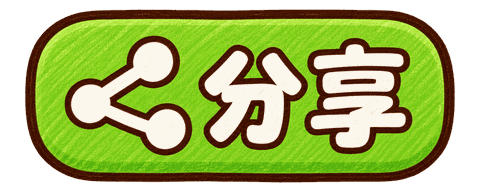
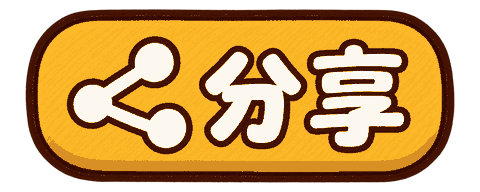
fix: 将结算分享按钮改为蜂蜜金配色

diff --git a/文档/原型-超越目标与结算名次/结算分享按钮-素材说明.md b/文档/原型-超越目标与结算名次/结算分享按钮-素材说明.md
@@ -1,0 +1,46 @@
+# 结算分享按钮素材记录
+
+日期：2026-10-20。按用户反馈，将结算底部的绿色分享按钮改为蜂蜜金，与奶油首页、珊瑚重玩及弹窗金边搭配。
+
+## 最终文件
+
+- [运行时 PNG](../../assets/resources/Settlement/button-share-v3.png)
+- [design 源稿](../../design/原型-超越目标与结算名次/button-share-v3.png)：与运行时文件逐字节一致。
+- [深底／奶油底与同组尺寸预览](../../design/原型-超越目标与结算名次/结算按钮-配色预览.png)：素材 QA 图，不是 Creator 运行截图。
+- [检查记录](../../design/原型-超越目标与结算名次/结算分享按钮-检查.json)
+
+保留原胶囊轮廓、左侧分享图标和既有「分享」文字。蜂蜜金底搭配暖棕轮廓和少量哑光彩铅纹理，无花朵、白色高光线或新增文案。首页和重玩素材保持原样。
+
+## 规格与接入
+
+| 项目 | 结果 |
+| --- | --- |
+| 画布／格式 | 480×192，RGBA PNG；RGB 减色为 16 色，单独保留抗锯齿 Alpha |
+| 文件大小 | 47,860 字节（46.7 KB），低于按钮 48 KB 目标与 96 KB 上限；比原版增加 21,094 字节 |
+| Alpha > 4 包围盒 | (25,9)–(455,183)，右下不含；有效 430×174，与原版一致 |
+| 原显示框 | 316×126 设计单位，再随整窗等比缩放；源图为显示框约 1.52 倍 |
+| 运行时有效尺寸 | 约 283.08×114.19 设计单位，与原版一致 |
+| Alpha 检查 | 四角为 0；保护内区 (65,55)–(415,137) 全为 255；保留透明边缘 |
[1 lines of base64/hex data omitted]
+| SpriteFrame | `c0733c77-085e-4fea-af09-27de9d46313a@f9941`，原 `.meta` 未修改 |
+| 引用 | `game.scene` 和 `SettlementPopup.prefab` 仍使用同一资源；无需改脚本、层级或点击区域 |
+
+使用内置 ImageGen 编辑原素材，随后裁去无效空白、等比缩放、校正内部透明度并压缩。PNG-8 试压将内部 Alpha 合并为 253，因此最终采用 RGBA，完整保留不透明内区与抗锯齿边缘。项目仅接入最终小图，没有加入生成原图或旧版本。
+
+`check_asset.py --profile button` 通过；已查看深色底与奶油色底的原尺寸和同组三按钮缩小预览，字形清楚，有效高度与首页、重玩接近。未执行 Creator 3.8.8 重新导入、运行场景、按下态和微信真机检查；实际包体积未检查。
+
+## 生成提示词
+
+工具：内置 `image_gen.imagegen`。原分享按钮为编辑目标，首页与重玩按钮仅作为风格参考；保留现有烘焙文字，不增加文案。
+
+首轮：
+
+```text
+Use case: precise-object-edit. Deliver ONE transparent PNG game UI asset: the existing horizontal share button shown in reference image 1, recolored to warm honey gold to replace its green background. Reference image 1 is the edit target; reference images 2 and 3 are matching home/replay buttons for style only and must not appear in the output. Preserve the same straight horizontal rounded capsule silhouette, wide 2.47:1 visible aspect ratio, warm brown outline, left three-node share icon and the existing exact Chinese characters 分享 on the right. These existing cream icon and letter shapes must remain unchanged and readable when the full button is displayed at 143x58 pixels. Change only the green button fill to a restrained honey-gold #F6B43A, with a small flat darker ochre lower rim #D89528; use a few subtle matte crayon strokes matching the other buttons. Keep a clean cream #FFF9ED icon and existing lettering with warm brown contour #62391F. Light, cheerful hand-drawn 2D casual game style; no heavy bevel, no extruded depth, no white highlights, no shine, no gloss, no light streaks, no gradients, no green, no flowers, no extra text or decorative objects. Truly transparent background including all four corners, no colored backdrop, no drop-shadow cloud. Preserve existing baked lettering only; do not add any new text. The final project asset will use a 480x192 transparent canvas with visible button bounded approximately (25,9)-(455,183); keep the entire button inside the image with a small transparent margin, centered and without perspective/tilt.
+```
+
+去除上沿高光线的定稿修正：
+
+```text
+Edit this ONE transparent game share button. Preserve its entire silhouette, proportions, share icon, existing exact 分享 lettering, warm brown outlines and composition. Change only the pale cream highlight band inside the upper edge of the gold button: remove that pale band entirely and fill it with the SAME flat matte honey-gold as the main button face. The only cream areas should be the share icon and the existing 分享 characters. Keep the slim darker ochre lower rim but do not make it beveled or glossy. Very sparse subtle crayon texture, no pale highlight streaks, no specular highlights, no shine, no gradients or glow. This is a lightweight flat hand-drawn 2D casual game button. Keep true transparent alpha exterior and fully opaque painted interior. Single isolated asset, no added text or other objects.
+```

diff --git a/文档/新版结算-实现验证.md b/文档/新版结算-实现验证.md
@@ -8,7 +8,7 @@
 
 - `assets/resources/Settlement/SettlementPopup.prefab` 维护标题、得分、最高合成与金币小签、皇冠荣誉牌、榜单 Mask、行模板和三个按钮的静态布局。复用场景原有结算根节点及脚本 UUID。
 - `GameOverOverlayController` 加载 Prefab、转发按钮、渲染真实数据和头像；场景与玩法背景不变。Prefab 失败时仍提供基础成绩和首页、重玩、分享。
-- 底部直接引用原场景的 `button-home-v3`、`button-replay-v3`、`button-share-v3` 三张 PNG，保留两枚方形图标和一枚横向分享按钮，126×126／126×126／316×126，按原素材比例与视觉尺寸排布；不另绘按钮或覆盖素材文字。
+- 底部直接引用原场景的 `button-home-v3`、`button-replay-v3`、`button-share-v3` 三张 PNG，保留两枚方形图标和一枚横向分享按钮，126×126／126×126／316×126，按原素材比例与视觉尺寸排布。分享按钮按后续反馈改为蜂蜜金；图标、文字、显示尺寸与引用方式保留。
 - `SettlementPresentation` 提供纯数据动画计算。本人从底部向上冲，周围玩家依次让位；八个对手行槽和一个本人行复用，不为全榜创建节点。
 - 普通冲榜为准备 450ms、下压 180ms、飞行 1950ms、落位 340ms；超越 30 名以上将飞行设为 2100ms。大幅跃升压缩沿途真实片段，中段允许跳号，不使用虚构玩家。
 - 普通超越两波共 96 片彩纸，持续 2600ms；登顶三波 144 片、3000ms；首次上榜一波 36 片、1900ms；持平和重放不庆祝。彩纸在落位开始时触发，采用单个 Graphics 绘制短彩带、星片和翻转纸片。
@@ -55,7 +55,7 @@
 
 生成工具、最终提示词和历史深底/奶油底预览见 [素材说明](原型-超越目标与结算名次/结算荣誉底板-素材说明.md)。新增位图合计约 46.4 KB，彩纸和行底由 Graphics 绘制，按钮复用既有 PNG。实际微信构建包体积未检查。
 
-### 原按钮与原型一致性修正（2026-10-20）
+### 原按钮与原型一致性修正（2026-10-20，分享换色前记录）
 
 用户真机反馈后恢复原场景绑定的按钮素材，原 PNG 与 .meta 均不改动；Prefab 默认直接引用相同 SpriteFrame，脚本也使用场景传入的引用，加载后重设显示尺寸，防止素材原尺寸覆盖布局。
 
@@ -70,6 +70,14 @@
[1 lines of base64/hex data omitted]
 
 只读检查开发库：当前有效分数榜只有 1 名玩家。真实结算只显示本人是数据结果，原型中的五名演示玩家不写入游戏或数据库。本轮未修改后端、原型 HTML 或原按钮文件。
+
+### 分享按钮换色（2026-10-20）
+
+按最新反馈，使用内置 ImageGen 将横向分享按钮重新生成为蜂蜜金配色，去掉上沿浅色高光线，保留分享图标和既有「分享」字形。替换 `assets/resources/Settlement/button-share-v3.png`；源稿、同组预览和检查 JSON 保存在 design，文档目录仅保存说明。
+
+最终为 480×192 RGBA PNG，47,860 字节（46.7 KB）；Alpha > 4 包围盒仍为 (25,9)–(455,183)，有效 430×174，按原 316×126 显示框换算约 283.08×114.19 设计单位。四角全透明，内部 Alpha 255；深色与奶油色底的原尺寸和同组缩小预览已检查。`check_asset.py --profile button` 通过。
+
+原 `.meta`、SpriteFrame UUID、Prefab、脚本及点击区域均不改动；没有改动首页、重玩素材或后端。本轮未执行 Creator 重新导入、运行场景、按下态及微信真机检查。完整提示词、最终路径和哈希见 [分享按钮素材说明](原型-超越目标与结算名次/结算分享按钮-素材说明.md)。
 
 ## 已执行验证
 

diff --git a/文档/原型-超越目标与结算名次/结算冲榜动画设计.md b/文档/原型-超越目标与结算名次/结算冲榜动画设计.md
@@ -10,7 +10,7 @@
 
 - 标题为奶油色描边字，得分放大为蜂蜜黄动态数字；最高合成与金币收成两个轻量小签。
 - 排行榜单独使用浅奶油卡片，约五行高，顶部集中显示名次与 `↑N`；自己的行改为珊瑚橙，沿用相同暖棕轮廓，其他玩家保持轻淡。
-- 原型底部用首页、珊瑚橙「再来一局」、叶绿分享演示三个操作。游戏接入按用户后续反馈保留原场景绑定的三张 v3 按钮 PNG，采用两枚方形图标和横向分享素材，不以 Graphics 重绘；本人行添加少量轻淡彩铅短线。
+- 原型底部用首页、珊瑚橙「再来一局」、叶绿分享演示三个操作。游戏接入按用户后续反馈保留原场景绑定的三张 v3 按钮 PNG，采用两枚方形图标和横向分享素材；分享按钮的最终游戏素材已按最新反馈改为蜂蜜金，见 [素材说明](结算分享按钮-素材说明.md)。不以 Graphics 重绘；本人行添加少量轻淡彩铅短线。
 - 弹窗底板采用一张完整透明 PNG：蜂蜜金边框、顶部皇冠、珊瑚飘带、少量叶片与底部小星章。去掉花朵，中央保持纯奶油色；所有动态数据留在 HTML 中。
 - 冲榜落位后，两侧喷出蜂蜜黄、珊瑚橙、叶绿和浅蓝彩纸，夹少量短彩带与星片，翻转后飘落。动态庆祝使用 Canvas，不新增位图素材；得分、头像、榜单正文和操作按钮留出保护区。
 - 游戏场景背景、暗色遮罩和棋子预览保持原样。为皇冠留出顶部空间，略收紧得分区间距，榜单仍保持五行高度。底板图片已经内嵌；HTML、PNG 和 JSON 检查记录保存在 `design/原型-超越目标与结算名次/`，说明文档留在文档目录。

diff --git a/文档/需求与实现方案-超越目标与结算名次.md b/文档/需求与实现方案-超越目标与结算名次.md
@@ -348,7 +348,7 @@ else 取缓存 entries 中 value ≥ score 的最小者
 
 ### 9.1 布局
 
-静态层级由 assets/resources/Settlement/SettlementPopup.prefab 维护，基准 750×1488：标题、大号暖黄得分、最高合成与金币小签、皇冠荣誉牌、五行榜单与首页／重玩／分享。底部保留原场景绑定的三张 v3 按钮 PNG，不重绘为临时按钮。游戏背景保持原样，无花朵堆叠；底板、字体和头像复用最终素材。名次位于皇冠下方的空白内区。
+静态层级由 assets/resources/Settlement/SettlementPopup.prefab 维护，基准 750×1488：标题、大号暖黄得分、最高合成与金币小签、皇冠荣誉牌、五行榜单与首页／重玩／分享。底部保留原场景绑定的三张 v3 按钮 PNG；分享按钮按后续反馈重新生成为蜂蜜金配色，原路径、UUID、文字、图标和显示尺寸保留，不重绘为临时按钮。游戏背景保持原样，无花朵堆叠；底板、字体和头像复用最终素材。名次位于皇冠下方的空白内区。
 
 排行榜使用 Mask 和八个对手行槽＋一个本人行，名次、头像、昵称和分数成组运动。本局分数与榜单历史最高分分别显示；数字固定字框、右对齐和单行 SHRINK，昵称省略。整个弹窗按系统安全区和微信胶囊底边计算可用区域并等比缩放。
 
